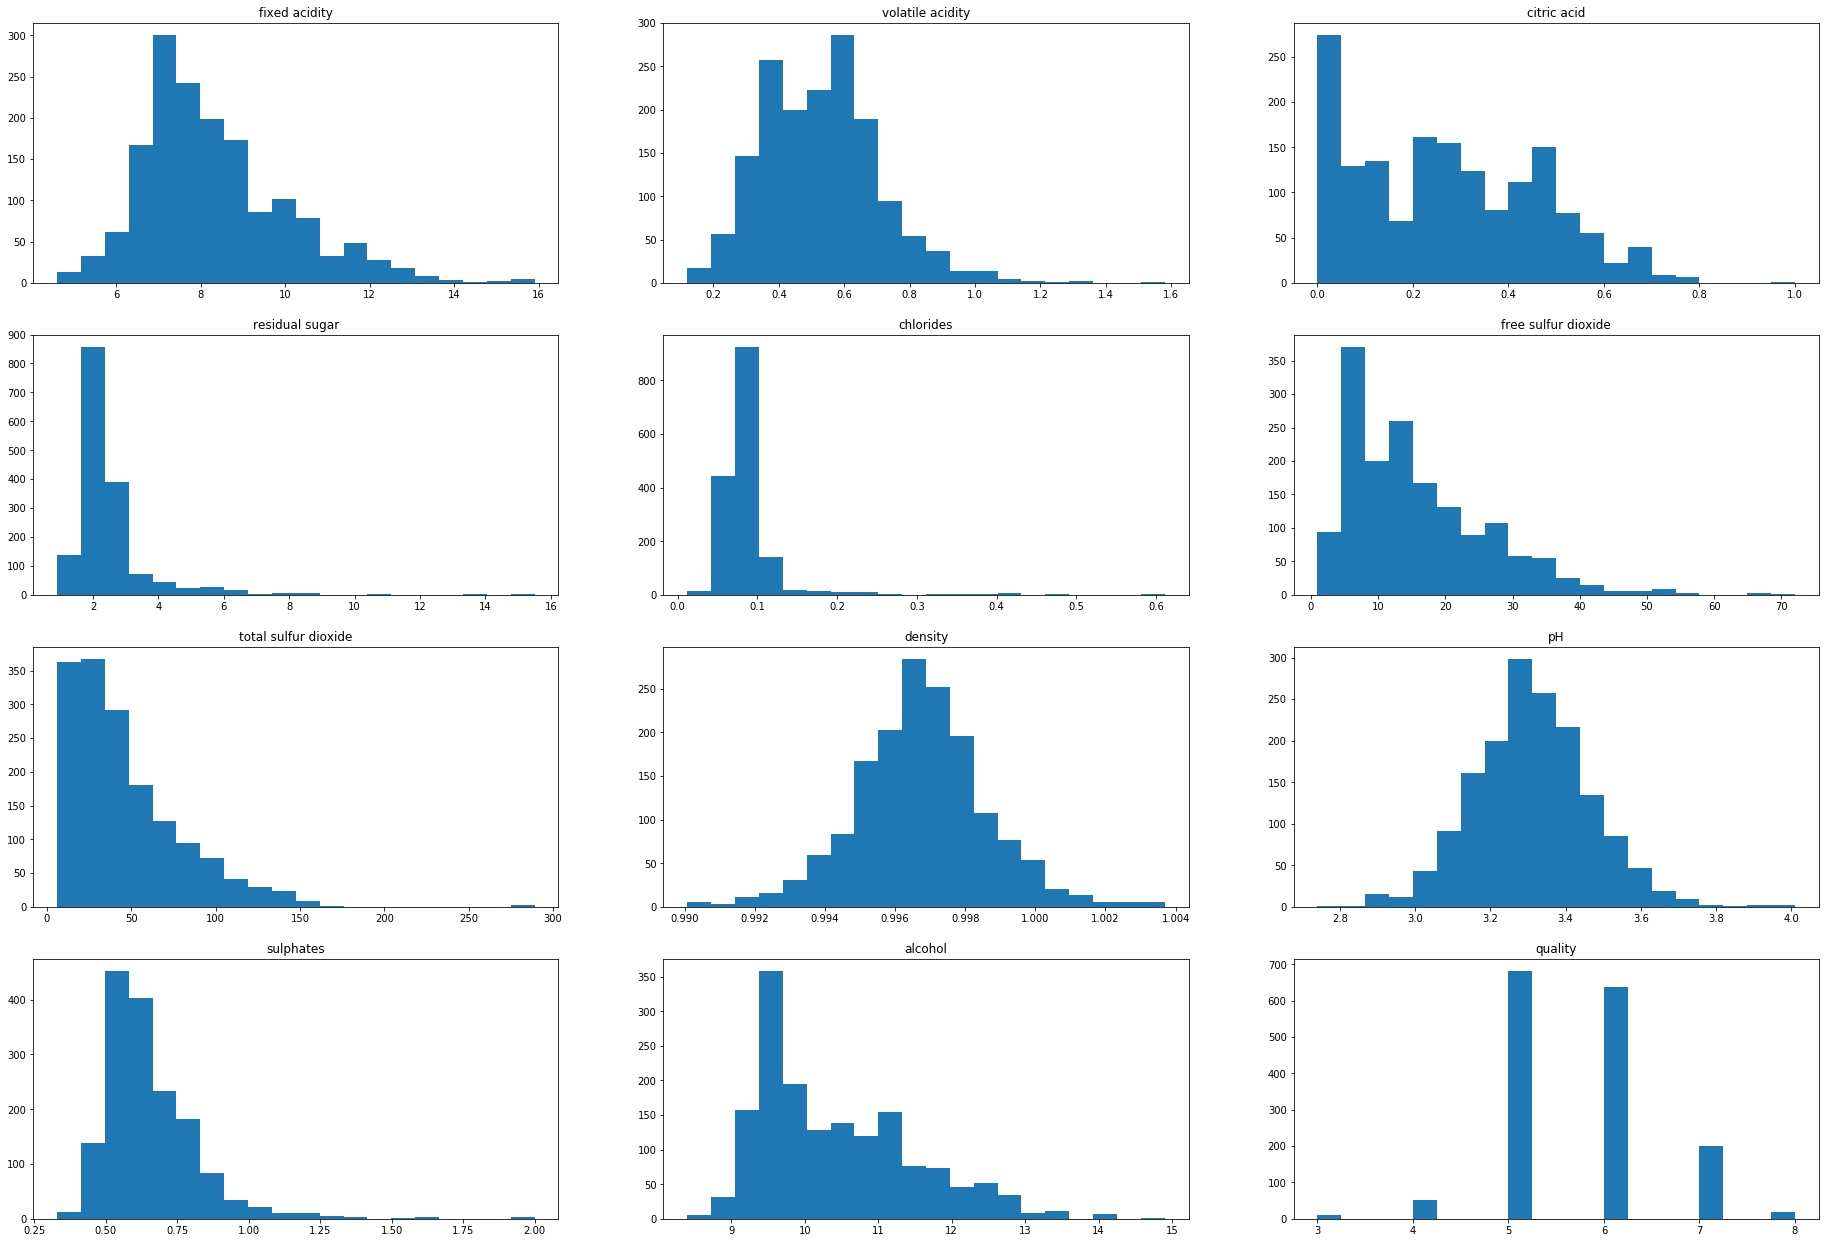
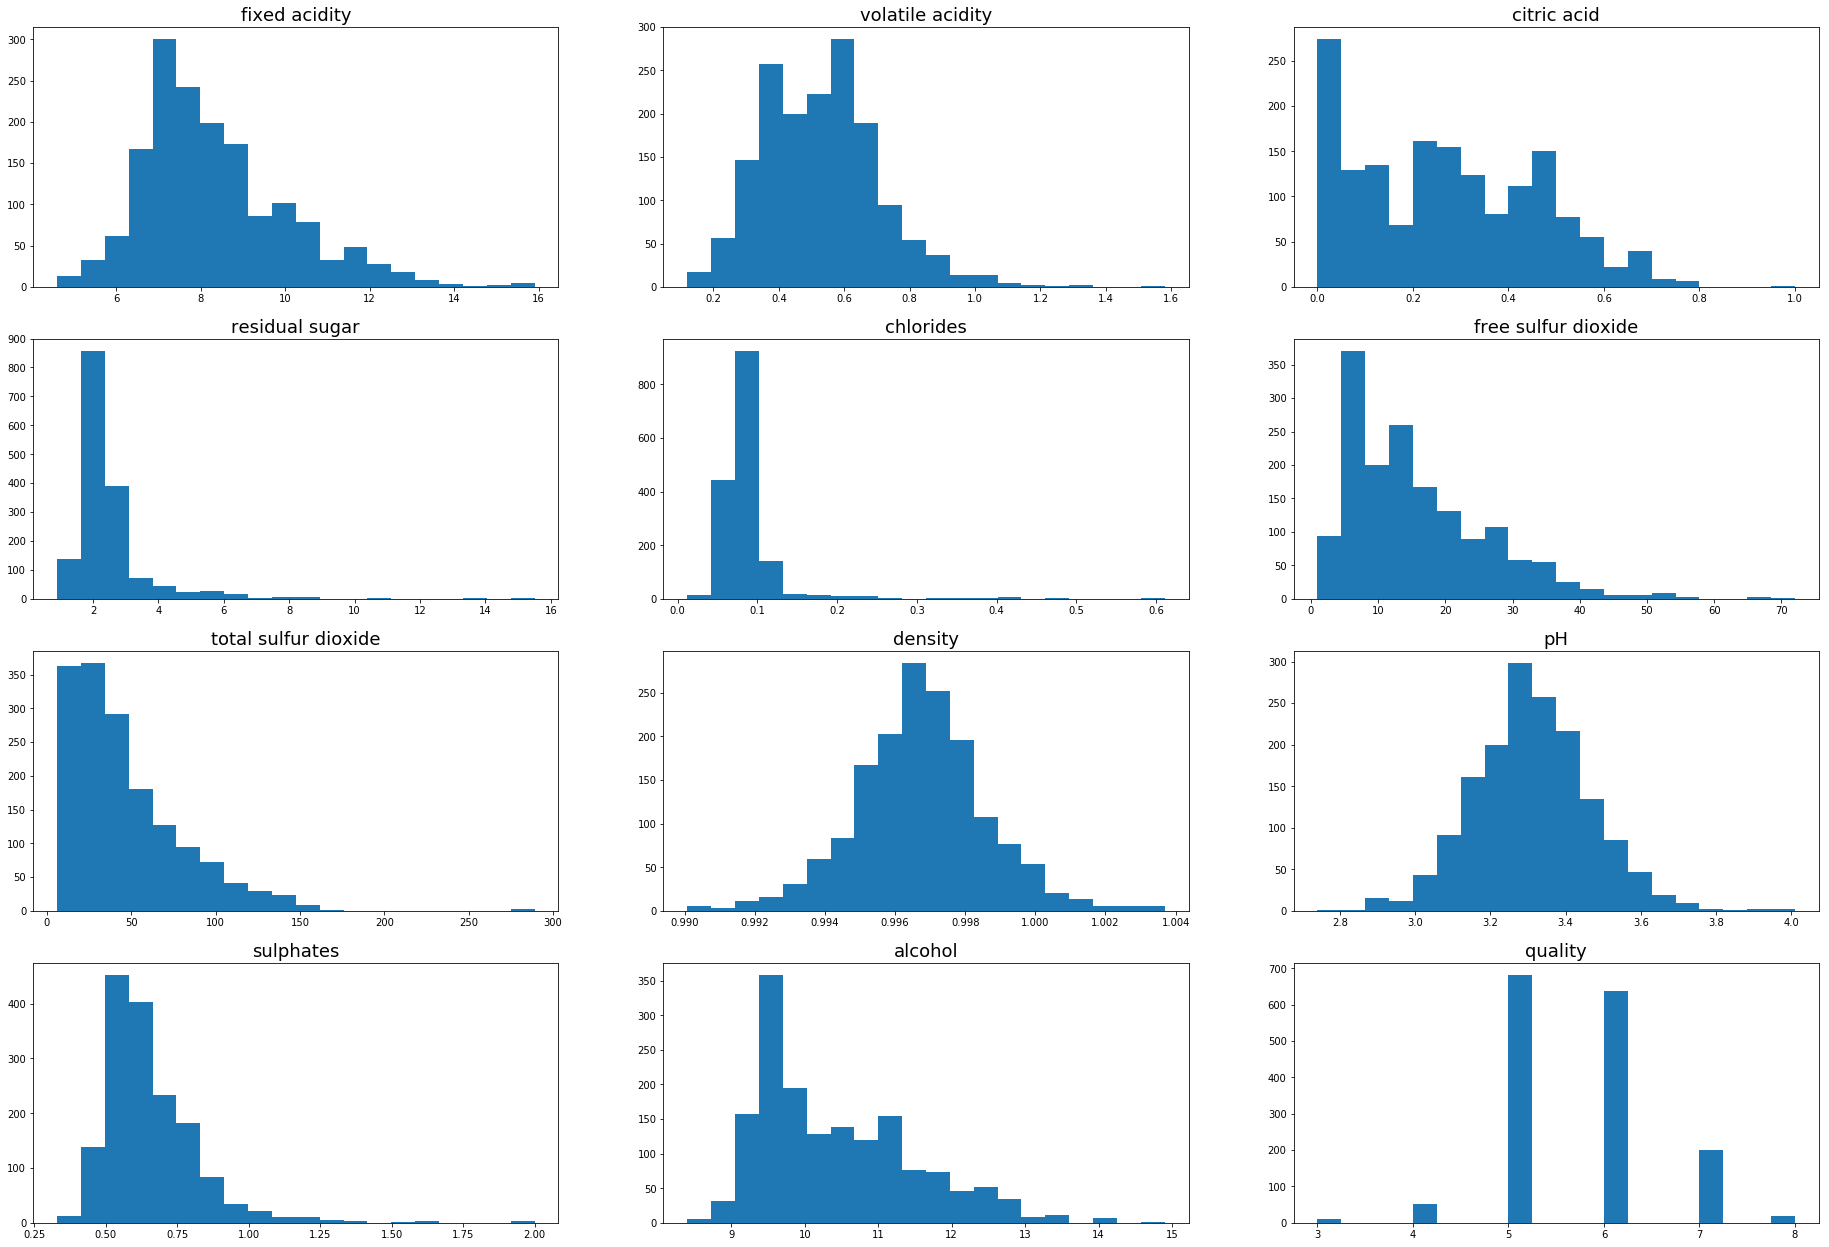
Change fontsize on images

diff --git a/notebooks/wine-quality/Wine Quality.md b/notebooks/wine-quality/Wine Quality.md
@@ -173,14 +173,14 @@ import matplotlib.pyplot as plt
 plt.figure(figsize=(32,22))
 for i in range(1, white.shape[1]+1):
     plt.subplot(4,3,i)
-    plt.title(white.columns[i-1])
+    plt.title(white.columns[i-1],fontsize=18)
     plt.hist(white.iloc[:,i-1], bins=30)
 
 plt.show()
 ```
 
 
-![png](output_5_0.png)
+![png](/images/wine-quality/output_5_0.png)
 
 
 The physio chemical features contain a variety of distributions, there appear to be several outlier values for the majority of the features that could be detected and removed to aid in training a predictive model. There is an excellent explanation on why RandomForests are not immune to being swayed by outliers in the answer to this [stackoverflow post.](https://stats.stackexchange.com/questions/187200/how-are-random-forests-not-sensitive-to-outliers)
@@ -333,14 +333,14 @@ red = pd.read_csv('winequality-red.csv',sep=';')
 plt.figure(figsize=(32,22))
 for i in range(1, red.shape[1]+1):
     plt.subplot(4,3,i)
-    plt.title(red.columns[i-1])
+    plt.title(red.columns[i-1],fontsize=18)
     plt.hist(red.iloc[:,i-1], bins=20)
 
 plt.show()
 ```
 
 
-![png](output_17_0.png)
+![png](/images/wine-quality/output_17_0.png)
 
 
 Much of the distributions of red wine are similar to that of white, the dataset does however seem to be less affected by outliers than the white wine.
@@ -456,5 +456,5 @@ plt.legend(fontsize=12)
 
 
 
-![png](output_27_1.png)
+![png](/images/wine-quality/output_27_1.png)
 
